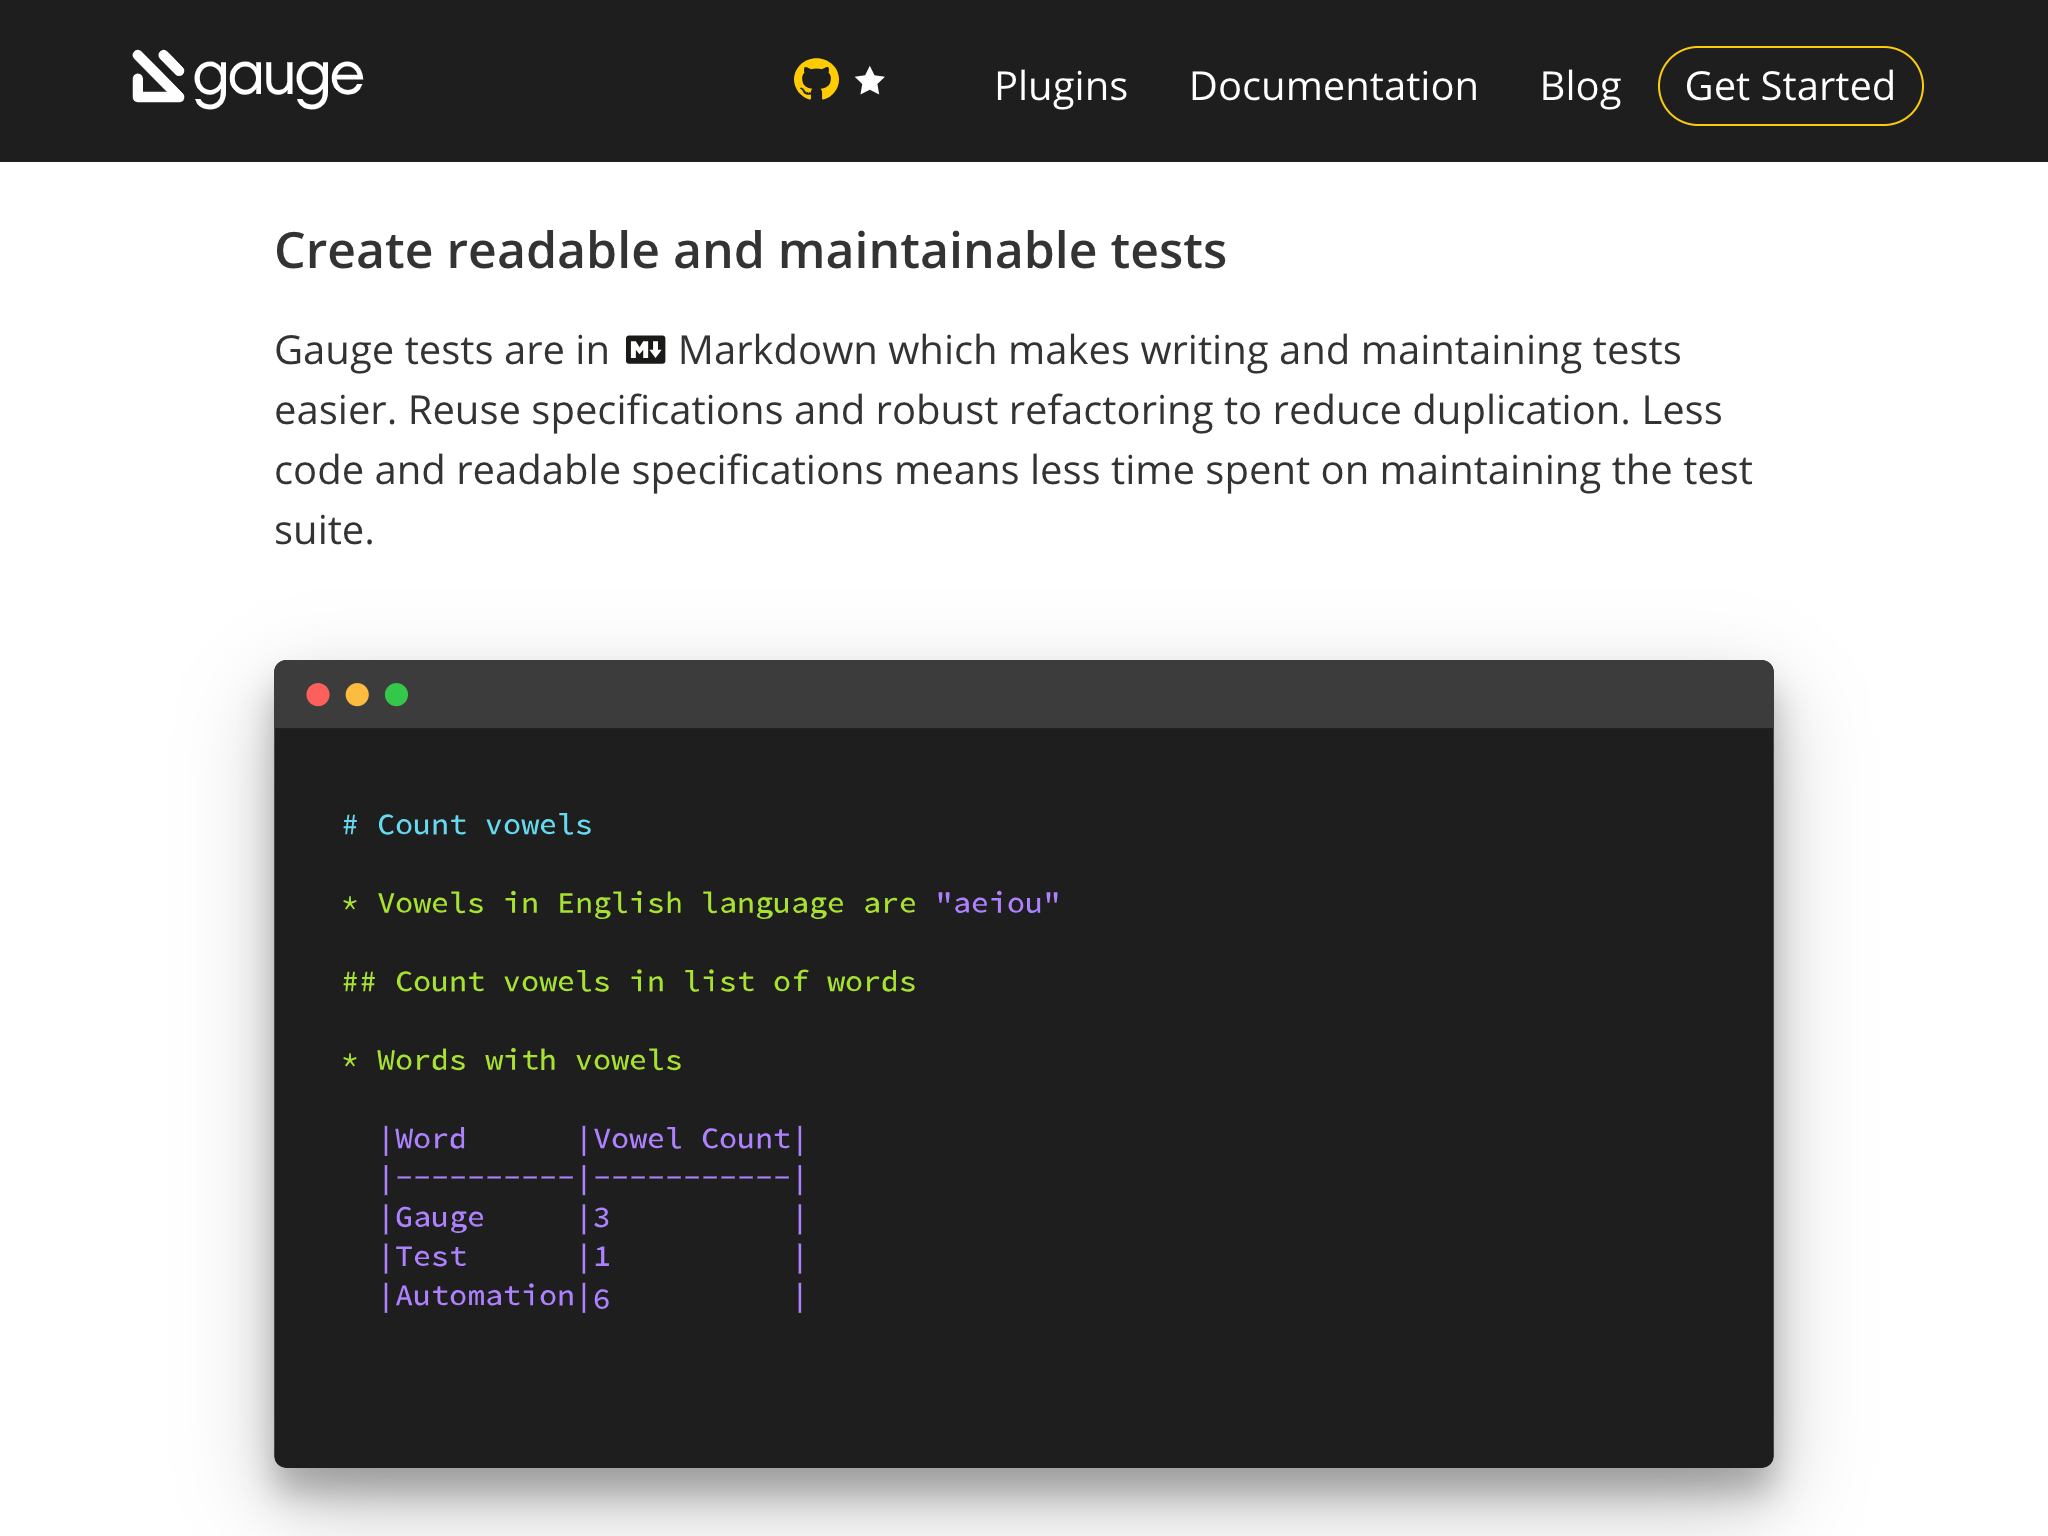
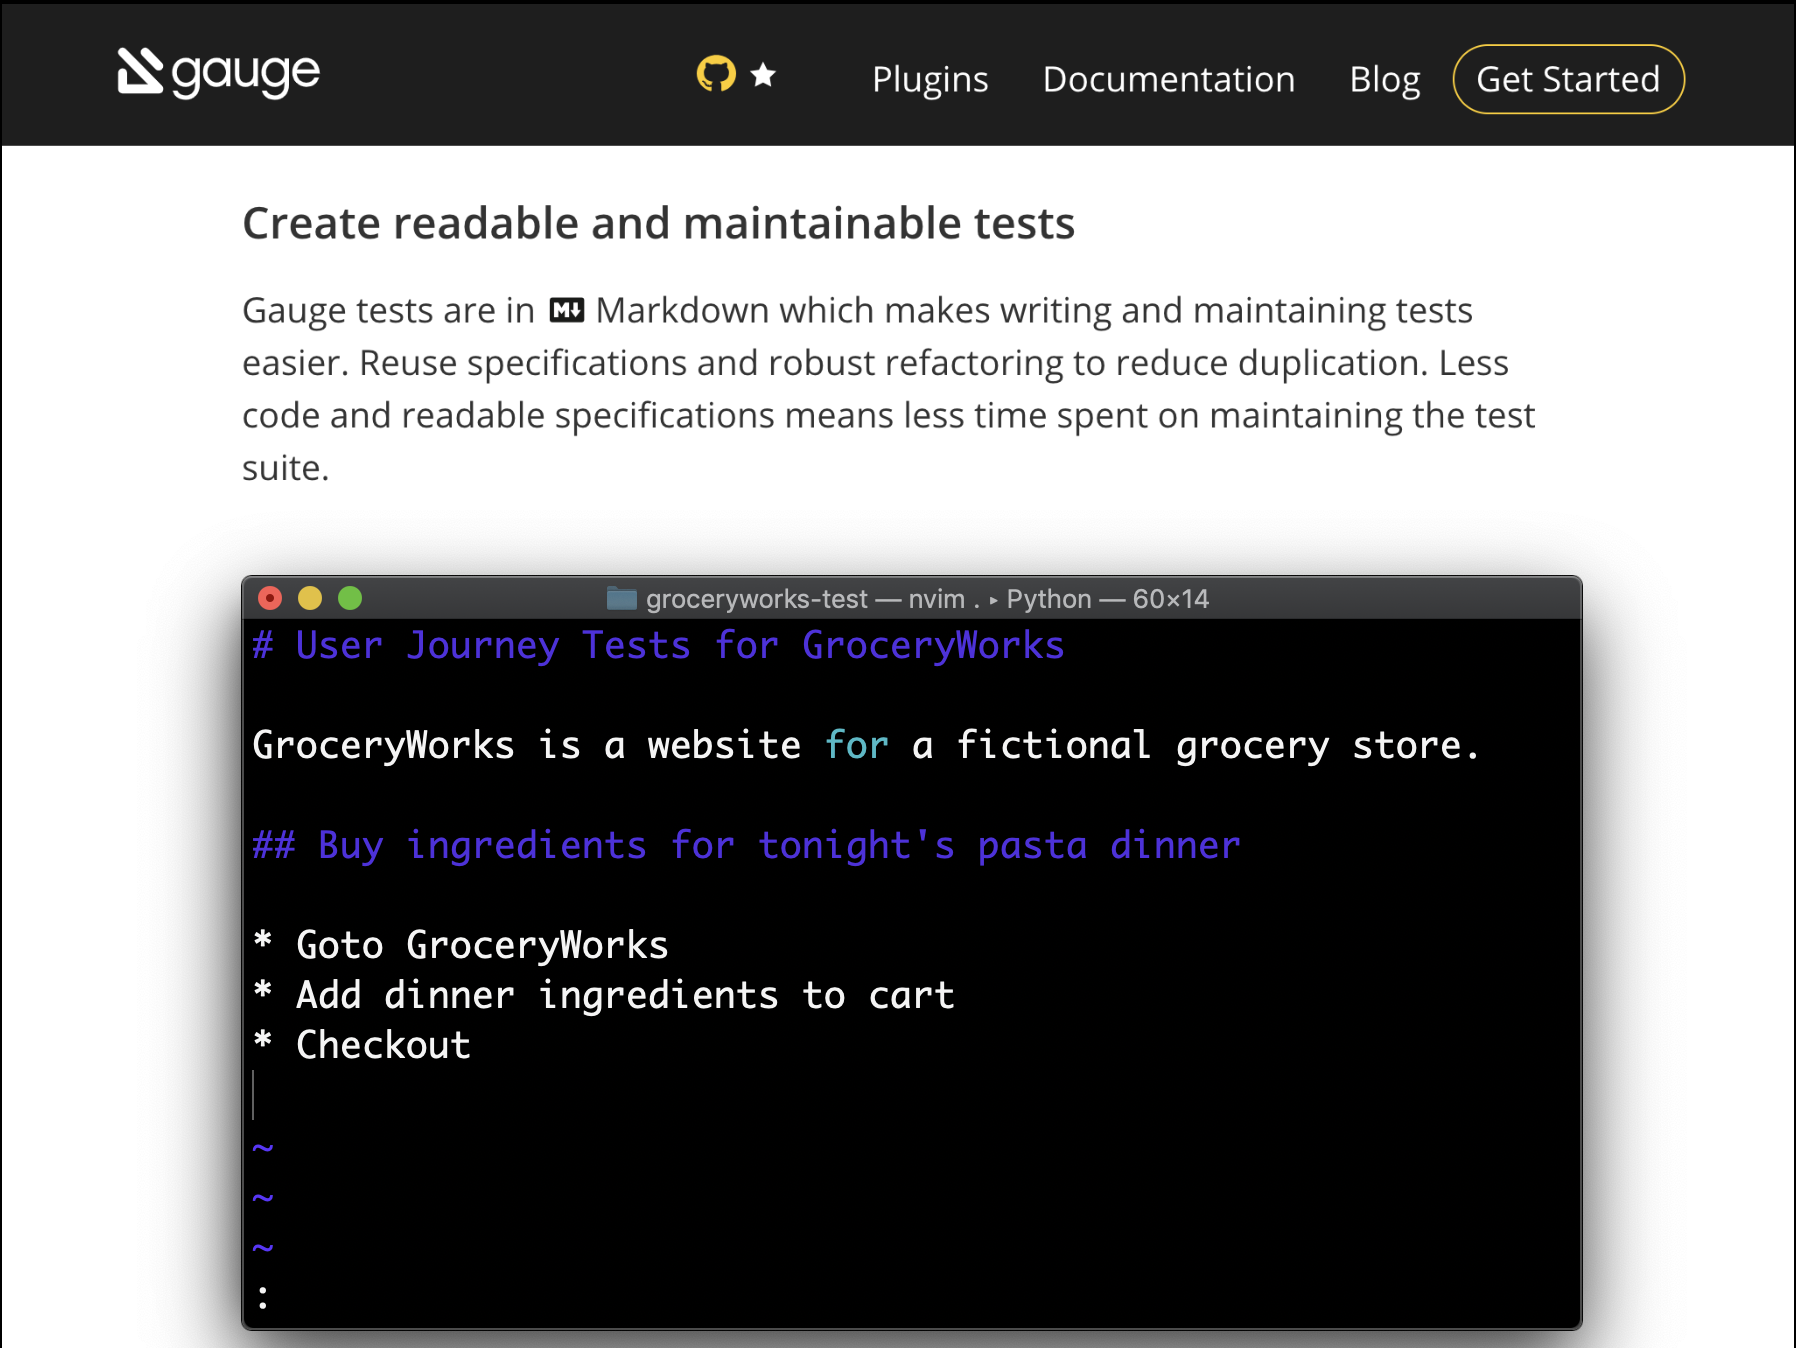
added transcript

diff --git a/index.html b/index.html
@@ -130,7 +130,7 @@
         <audio src="slides/unit-test/audio.mp3"></audio>
         <figure>
           <a href="https://martinfowler.com/articles/practical-test-pyramid.html">
-          <img src="slides/test-pyramid/test-pyramid.png"
+          <img src="slides/test-pyramid/test-pyramid_1024px.png"
                alt="The Test Pyramid"
                class="contain"
                data-src="https://martinfowler.com/articles/practical-test-pyramid.html">
@@ -228,7 +228,7 @@
         </figure>
       </section>
 
-      <section>
+      <section class="theme-invert">
         <h2 hidden aria-hidden="false">User Journey Test</h2>
         <audio src="slides/gauge/audio.mp3"></audio>
         <figure>
@@ -249,7 +249,7 @@
         </figure>
       </section>
 
-      <section>
+      <section class="theme-invert">
         <h2 hidden aria-hidden="false">Design Thinking Starts with Empathy</h2>
         <audio src="slides/gauge/audio.mp3"></audio>
         <figure>
@@ -270,6 +270,26 @@
         </figure>
       </section>
 
+      <section>
+        <h2 hidden aria-hidden="false">GroceryWorks</h2>
+        <audio src="slides/gauge/audio.mp3"></audio>
+        <figure>
+          <a href="https://thirstyhead.com/groceryworks">https://thirstyhead.com/grocery
+            works</a>
+          <a href="https://thirstyhead.com/groceryworks">
+          <img src="slides/groceryworks/groceryworks.png"
+               alt="GroceryWorks"
+               class="contain"
+               data-src="https://thirstyhead.com/groceryworks">
+          </a>
+
+          <figcaption>
+            <p>So, here's a website for a fictional grocery store called GroceryWorks. As you click around, you'll see that tapping the categories on the left show you different types of food items -- beans, nuts, pasta, produce, and so on. Clicking on a food item adds it to the cart on the right. Clicking on the food item again removes it from the cart. Clicking 'Purchase' allows you to place your order or cancel it. 
+            </p>
+          </figcaption>
+        </figure>
+      </section>
+
 
 
       <section>
@@ -284,7 +304,11 @@
           </a>
 
           <figcaption>
+            <p>User Journey tests in Gauge are comprised of two complementary parts -- Specifications, written in Markdown; and Tests, written in the programming language of your choice. (More on that in just a moment...) 
+            </p>
+
             <p>
+              Markdown is basically plain text with some simple decorators like hashes for headers (which represent the name of your specs) and asterisks for bullet items (which represent the individual steps to take). Markdown gives you the flexibility to express the steps in exactly the language your end user uses to describe them.    
             </p>
           </figcaption>
         </figure>
@@ -302,7 +326,23 @@
           </a>
 
           <figcaption>
-            <p>
+            <p>You can implement your tests in a variety of popular programming languages: JavaScript, C#, Java, Python, or Ruby. What you're seeing here are the tests implemented in a JavaScript library written by ThoughtWorks called Taiko. I'm really impressed with it -- look how light and readable the syntax is. 
+            </p>
+            <p>What you've probably figured out already is that each step in JavaScript finds its corresponding step in Markdown by doing a simple string comparison. Simplicity is the best kind of cleverness, wouldn't you say?</p>
+          </figcaption>
+        </figure>
+      </section>
+
+      <section>
+        <h2 hidden aria-hidden="false">Gauge Report</h2>
+        <audio src="slides/gauge/audio.mp3"></audio>
+        <figure>
+            <img src="slides/gauge/gauge-report.png"
+               alt="Gauge Report"
+               class="contain"
+               data-src="https://gauge.org/">
+          <figcaption>
+            <p>When you run your tests, you end up with a nice-looking report that tells you how many of your specifications passed, and if they failed, which steps caused them to fail. 
             </p>
           </figcaption>
         </figure>
@@ -320,7 +360,7 @@
         <figure>
           <figcaption>
             <p>
-              In conclusion, here are a few final tips.
+              So, what have we learned? 
             </p>
           </figcaption>
         </figure>
@@ -339,24 +379,26 @@
 
           <figcaption>
             <p>
+            Unit testing libraries are still a key part of any responsible developer's toolkit. We want you to continue to use the library of your choice. Gauge doesn't have an opinion on what unit testing library you use, because Gauge is for writing an entirely different category of tests. 
             </p>
           </figcaption>
         </figure>
       </section>
 
       <section class="theme-invert">
-        <h2 hidden aria-hidden="false">The Test Pyramid</h2>
-        <audio src="slides/unit-test/audio.mp3"></audio>
+        <h2 hidden aria-hidden="false">Design Thinking Starts with Empathy</h2>
+        <audio src="slides/gauge/audio.mp3"></audio>
         <figure>
-          <a href="https://martinfowler.com/articles/practical-test-pyramid.html">
-          <img src="slides/test-pyramid/test-pyramid.png"
-               alt="The Test Pyramid"
+          <a href="https://www.interaction-design.org/literature/article/stage-1-in-the-design-thinking-process-empathise-with-your-users">
+          <img src="slides/design-thinking/design-thinking-empathy.png"
+               alt="Design Thinking starts with empathy."
                class="contain"
-               data-src="https://martinfowler.com/articles/practical-test-pyramid.html">
+               data-src="https://www.interaction-design.org/literature/article/stage-1-in-the-design-thinking-process-empathise-with-your-users">
           </a>
 
           <figcaption>
             <p>
+            Gauge wants your step #1 to be empathy. Gauge wants you to think like a user, because they are the ones who will ultimately decide if your web app is acceptable or not. 
             </p>
           </figcaption>
         </figure>
@@ -374,8 +416,9 @@
           </a>
 
           <figcaption>
-            <p>
+            <p>Gauge is for writing User Journey tests. Capture the words your end users use, and the steps they take, in plain English Markdown files. Implement the tests in the language of your choice. Show them easy-to-read reports, proving to them that your web app does exactly what they ask it to do. 
             </p>
+            <p>If you're already writing unit tests, this is your chance to level up and start thinking like a user instead of a developer. Are you up to the challenge?</p>
           </figcaption>
         </figure>
       </section>

diff --git a/css/talk-o-vision.css b/css/talk-o-vision.css
@@ -61,6 +61,11 @@ figcaption{
   display: none;
 }
 
+figure a{
+  color: var(--theme-foreground-color);
+  text-decoration: none;
+} 
+
 h2{
   font-size: 5rem;
   padding-top: 1rem;
@@ -159,12 +164,14 @@ ul li{
 }
 
 .contain{
-  height: 95vh;
+  height: 95vh; 
+  max-width: 95%;
   object-fit: contain;
 }
 
 .contain-with-header{
   height: 65vh;
+  max-width: 95%;
   object-fit: contain;
 }
 
